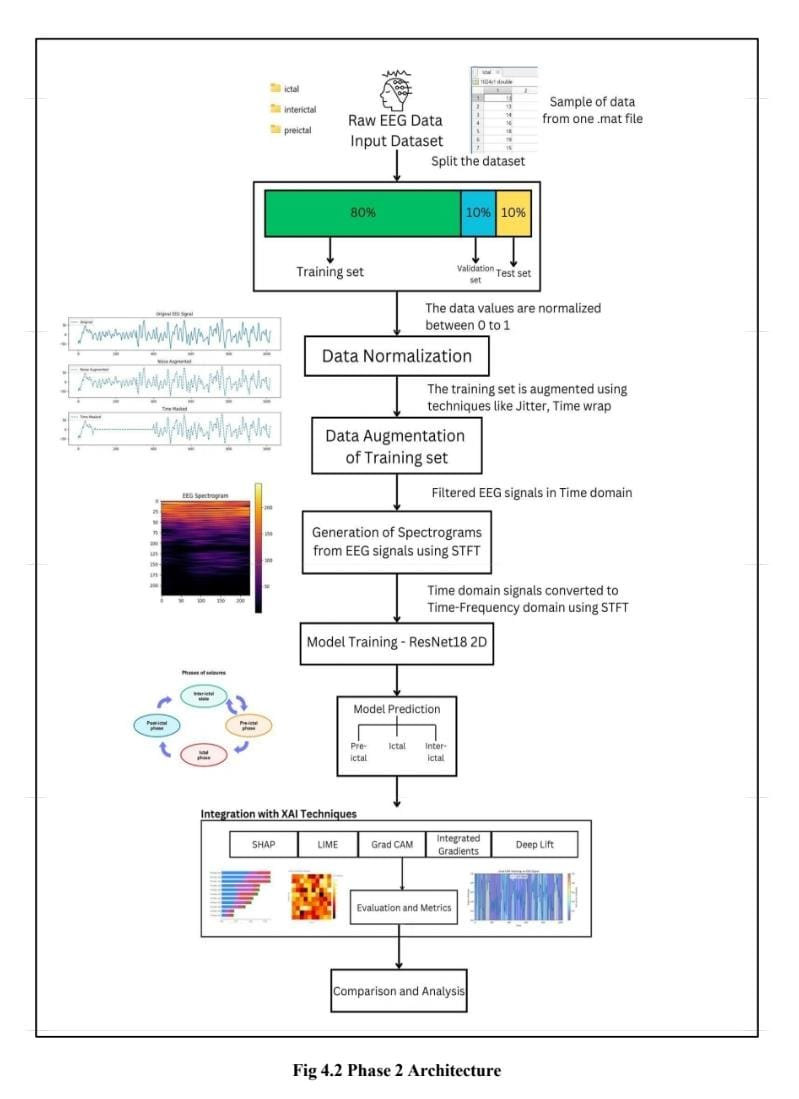
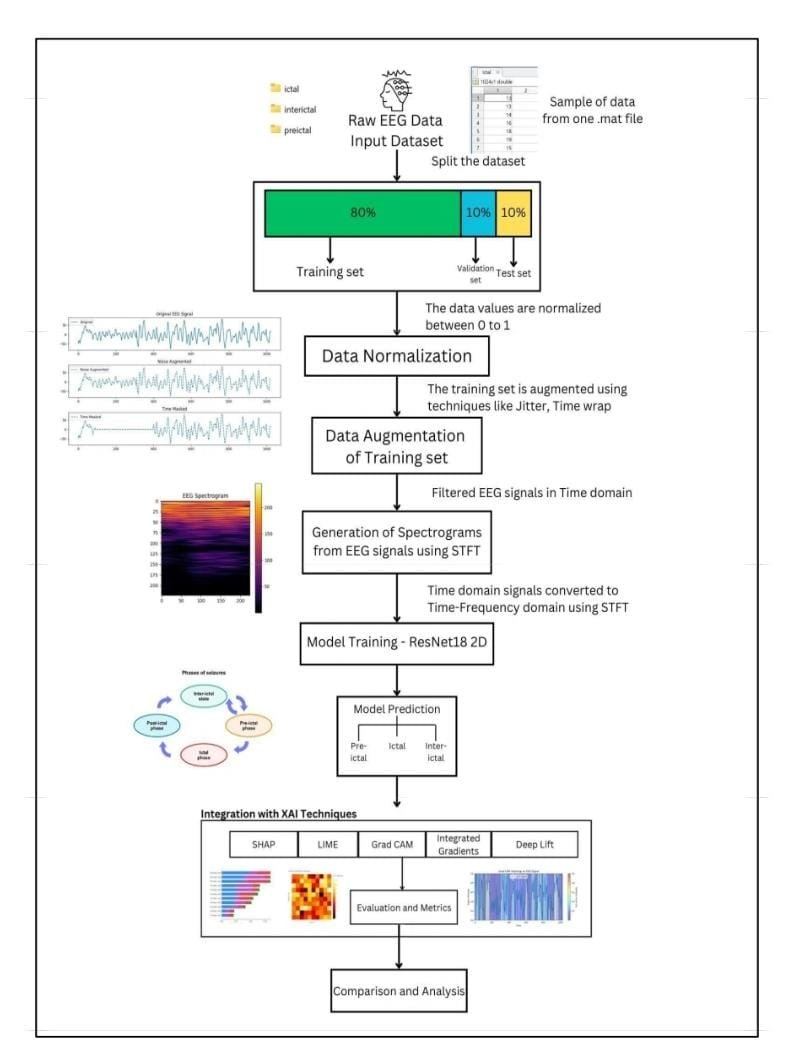
Stage 1 completed

Changed region(s): [[0.0601, 0.0306, 0.9312, 1.0], [0.9312, 0.9484, 0.9612, 1.0], [0.03, 0.9484, 0.0601, 1.0]]

diff --git a/README.md b/README.md
@@ -1,5 +1,5 @@
 # Epileptic Seizure Prediction Using EEG Signals
-### Phase-2 Architecture with Deep Learning and XAI
+### Architecture with Deep Learning and XAI
 
 This project focuses on **epileptic seizure prediction and classification** using **EEG signal analysis**, **deep learning**, and **Explainable AI (XAI)** techniques.  
 The system classifies EEG signals into **Pre-ictal, Ictal, and Inter-ictal** phases to support early seizure detection and clinical decision-making.
@@ -22,7 +22,7 @@ This project implements a **Phase-2 architecture** that:
 
 ![Architecture](phase2_architecture.jpeg)
 
-> **Fig 4.2 – Phase-2 Architecture for Epileptic Seizure Prediction**
+> **Architecture for Epileptic Seizure Prediction**
 
 ---
 
